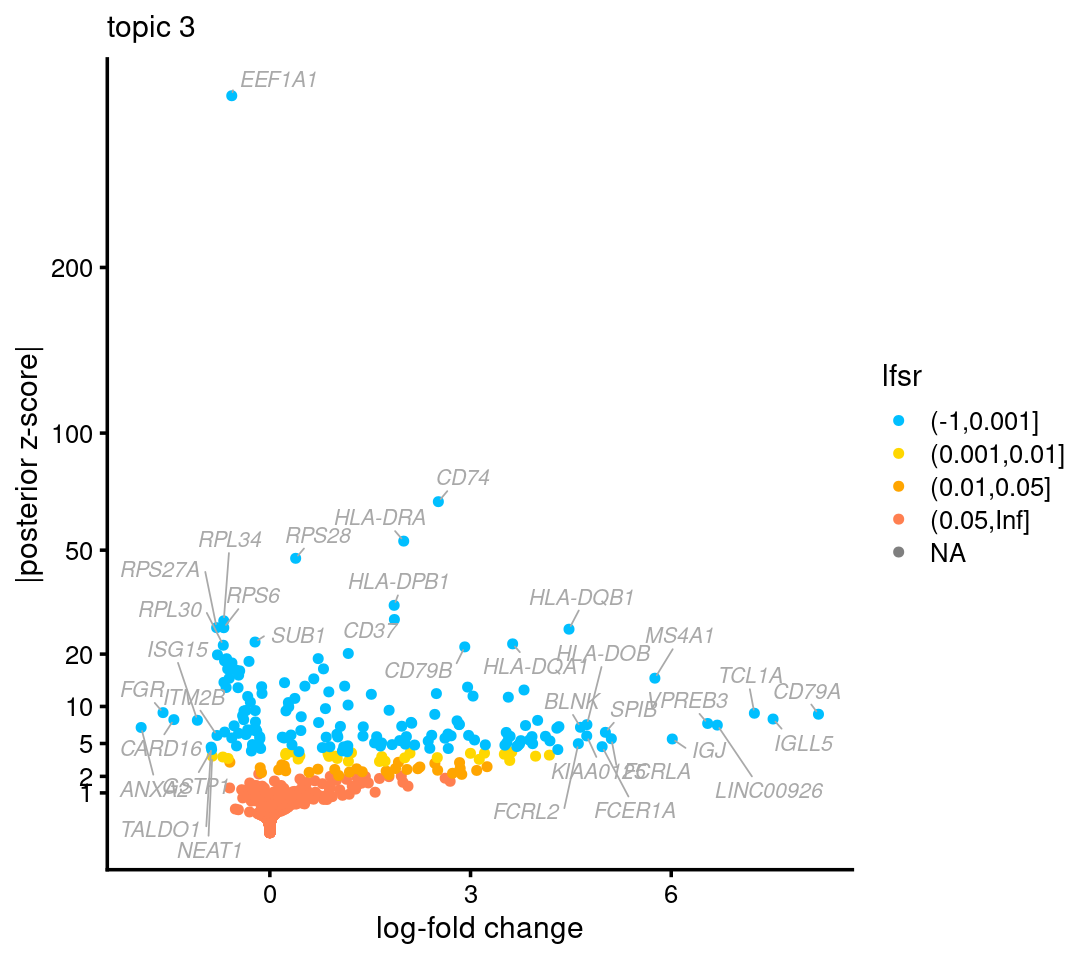
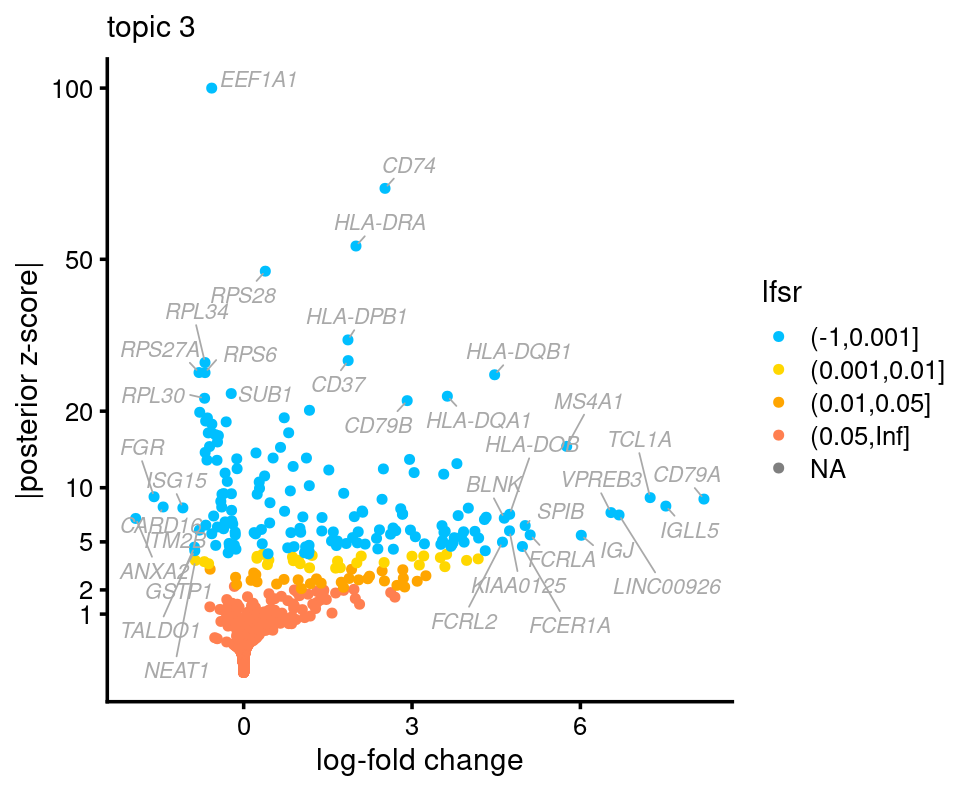
Revised the volcano plots and accompanying text in the fasttopics vignette.

diff --git a/docs/fasttopics.html b/docs/fasttopics.html
@@ -168,7 +168,7 @@ pre code {
 
 
 <h1 class="title toc-ignore">Analyzing Seurat data using fastTopics</h1>
-<h4 class="date">Compiled: March 17, 2023</h4>
+<h4 class="date">Compiled: March 20, 2023</h4>
 
 </div>
 
@@ -176,40 +176,28 @@ pre code {
 <p>This vignette illustrates the use of the <a
 href="https://github.com/stephenslab/fastTopics">fastTopics</a> Seurat
 wrapper to analyze a Seurat data set. This vignette is intended only to
-introduce the basic fastTopics interface for Seurat objects. For more
-detailed guidance on analyzing single-cell RNA-seq data using a topic
-model, please see the <a
+introduce the basic Seurat interface, and for more detailed guidance
+please visit the <a
 href="https://stephenslab.github.io/fastTopics/articles">fastTopics
 vignettes</a>.</p>
 <p>If you find the <strong>fastTopics</strong> package useful for your
 work, please cite:</p>
-<blockquote>
 <p><em>Visualizing the structure of RNA-seq expression data using grade
-of membership models.</em></p>
-<p>K. K. Dey, C. J. Hsiao and M. Stephens.</p>
-<p>PLoS Genetics, 2017.</p>
-<p>doi: <a
+of membership models.</em><br> K. K. Dey, C. J. Hsiao and M.
+Stephens.<br> PLoS Genetics, 2017.<br> doi: <a
 href="https://doi.org/10.1371/journal.pgen.1006599">10.1371/journal.pgen.1006599</a></p>
-</blockquote>
 <p>and</p>
-<blockquote>
 <p><em>Non-negative matrix factorization algorithms greatly improve
-topic model fits.</em></p>
-<p>P. Carbonetto, A. Sarkar, Z. Wang and M. Stephens.</p>
-<p>arXiv, 2021</p>
-<p><a href="https://arxiv.org/abs/2105.13440">arXiv 2105.13440</a></p>
-</blockquote>
-<p>If you use the <strong>de_analysis</strong> function in fastTopics,
-please cite:</p>
-<blockquote>
+topic model fits.</em><br> P. Carbonetto, A. Sarkar, Z. Wang and M.
+Stephens.<br> arXiv, 2021.<br> <a
+href="https://arxiv.org/abs/2105.13440">arXiv 2105.13440</a></p>
+<p>If you use the <strong>de_analysis</strong> function in
+<strong>fastTopics</strong>, please cite:</p>
 <p><em>Interpreting structure in sequence count data with differential
-expression analysis allowing for grades of membership.</em></p>
-<p>P. Carbonetto, K. Luo, A. Sarkar, A. Hung, K. Tayeb, S. Pott and M.
-Stephens</p>
-<p>bioRxiv, 2023.</p>
-<p>doi: <a
+expression analysis allowing for grades of membership.</em><br> P.
+Carbonetto, K. Luo, A. Sarkar, A. Hung, K. Tayeb, S. Pott and M.
+Stephens.<br> bioRxiv, 2023.<br> doi: <a
 href="https://doi.org/10.1101/2023.03.03.531029">10.1101/2023.03.03.531029</a></p>
-</blockquote>
 <p>To begin, load the packages we will need to perform the analysis.</p>
 <pre class="r"><code>library(Seurat)
 library(SeuratData)
@@ -225,7 +213,7 @@ data(pbmc3k)
 dim(GetAssayData(pbmc3k))
 # [1] 13714  2700</code></pre>
 <p>Fit the multinomial topic model to the raw UMI counts. <em>No data
-preprocessing or gene filtering is needed.</em> It may take several
+preprocessing or gene filtering is needed.</em> Note it may take several
 minutes to fit the model.</p>
 <pre class="r"><code>pbmc3k &lt;- FitTopicModel(pbmc3k, k = 6)</code></pre>
 <p>To fit a topic model, we had to choose <span
@@ -250,28 +238,29 @@ DimPlot(pbmc3k, reduction = &quot;pca&quot;, pt.size = 1) + theme_cowplot(font_s
 <p>The fitted topic model—a “multinom_topic_model” object—is stored in
 the “misc” slot:</p>
 <pre class="r"><code>fit &lt;- Misc(Reductions(pbmc3k, &quot;multinom_topic_model&quot;))$fit</code></pre>
-<p>Once the topic model has been extracted from the Seurat object, many
-fastTopics functions can be used for downstream analysis and
+<p>Once the topic model has been extracted from the Seurat object, a
+variety of fastTopics functions can be used for downstream analysis and
 visualization. For example, we can create a “Structure plot” to
 visualize all <span class="math inline">\(K\)</span> dimensions of the
 topic model simultaneously:</p>
 <pre class="r"><code>structure_plot(fit, grouping = Idents(pbmc3k), gap = 25)</code></pre>
 <p><img src="fasttopics_files/figure-html/structure-plot-1.png" width="900" style="display: block; margin: auto;" /></p>
-<p>In the Structure plot, each position along the x-axis is a cell, and
-the bar heights at each positioin correspond to topic proportions for
+<p>In the Structure plot, each position along the x-axis is a cell and
+the bar heights at each position correspond to topic proportions for
 that cell.</p>
-<p>From this plot, we observe that topic 3 (green) closely corresponds
-to B cells. Topics 1 (red) and 4 (purple) also correspond fairly well to
-the two types of monocytes, but there is also some overlap in the
-topics; in particular, the purple topic is shared by both types of
-monocytes. This suggests that expression in these two types of cells is
-less distinguishable than B cells vs. other cell types.</p>
+<p>Looking closely at the Structure plot, we observe that topic 3
+(green) closely corresponds to B cells. Topics 1 (red) and 4 (purple)
+also correspond fairly well to the two types of monocytes, but there is
+also some overlap in the topics; in particular, the purple topic is
+shared by both types of monocytes. This suggests that expression in
+these two types of cells is less distinguishable than B cells vs. other
+cell types.</p>
 <p>Topic 5 (orange) corresponds closely to natural killer (NK) cells.
 Topic 2 (blue) appears to capture biological processes common to T
 cells. Interestingly, CD8+ T cells have characteristics of both NK cells
 and T cells—these are T cells that sometimes become ``NK-like’’—and this
 is reflected in the topic model by assigning membership to both topics 2
-and 5 (blue and orange).</p>
+and 5.</p>
 <p>The other cell types (platelets, dendritic cells), perhaps because
 they are less abundant and/or difficult to distinguish from the other
 cell types, are represented as combinations of the topics for the other
@@ -279,27 +268,44 @@ cell types.</p>
 <p>Topic 6 is present in almost all cells to varying degrees, and
 therefore its biological interpretation is not at all clear from the
 cell labeling.</p>
-<p>Motivate the DE analysis using the topic model:</p>
+<p>Having compared the topic model with the existing cell-type labels,
+our next aim is to annotate the topics by identifying genes that are
+distinctive to each topic. To do this, we perform a “grade of
+membership” differential expression analysis (GoM DE):</p>
 <pre class="r"><code>pbmc3k &lt;- PerformGoMDEAnalysis(pbmc3k, pseudocount = 0.1, control = list(ns = 10000, nc = 4))
-# Using 4 RcppParallel threads.
 # Fitting 13714 Poisson models with k=6 using method=&quot;scd&quot;.
 # Computing log-fold change statistics from 13714 Poisson models with k=6.
 # Stabilizing posterior log-fold change estimates using adaptive shrinkage.</code></pre>
-<p>Now we can create volcano plots to visualize the results of the DE
-analysis.</p>
-<p>B cells:</p>
+<p>Note this step may take some time to run on your computer—10 minutes,
+or perhaps more. This is an expensive step because posterior estimation
+is performed through Monte Carlo simulation.</p>
+<p>Once the differential expression analysis is complete, we can use a
+“volcano plot” to visualize the results. For example, this is the
+volcano plot for topic 3:</p>
 <pre class="r"><code>de &lt;- Misc(Reductions(pbmc3k, &quot;multinom_topic_model&quot;))$de
-volcano_plot(de, k = 3)</code></pre>
-<p><img src="fasttopics_files/figure-html/volcano-plot-b-cells-1.png" width="540" style="display: block; margin: auto;" /></p>
-<p>CD14+ monocytes:</p>
-<pre class="r"><code>volcano_plot(de, k = 1)</code></pre>
-<p><img src="fasttopics_files/figure-html/volcano-plot-cd14-1.png" width="540" style="display: block; margin: auto;" /></p>
-<p>NK cells:</p>
+volcano_plot(de, k = 3, ymax = 100)</code></pre>
+<p><img src="fasttopics_files/figure-html/volcano-plot-b-cells-1.png" width="480" style="display: block; margin: auto;" /></p>
+<p>The volcano plot shows the log-fold change (LFC) on the x-axis and
+some measure of statistical support on the y-axis. For the measure of
+support, we use the posterior <em>z</em>-score (posterior mean divided
+by posterior standard deviation). To report which LFCs are significant,
+instead of a <em>p</em>-value we give the local false sign rate (lfsr),
+which is typically slightly more conservative than a <em>p</em>-value.
+Note the LFC is defined with the base-2 log by convention.</p>
+<p>Typically, the most interesting genes are found on the right-hand
+side of the volcano plot—the genes with the largest LFCs. Indeed,
+<em>CD79A</em> is on the far right-hand side of the plot, which aligns
+with our previous finding that topic 3 corresponds closely to B
+cells.</p>
+<p>Similarly, NK genes such as <em>NKG7</em> and <em>GNLY</em> emerge on
+the right-hand side of the volcano plot for topic 1:</p>
 <pre class="r"><code>volcano_plot(de, k = 5, ymax = 50)</code></pre>
-<p><img src="fasttopics_files/figure-html/volcano-plot-nk-1.png" width="540" style="display: block; margin: auto;" /></p>
-<p>Ribosomal protein genes:</p>
+<p><img src="fasttopics_files/figure-html/volcano-plot-nk-1.png" width="480" style="display: block; margin: auto;" /></p>
+<p>Topic 6 captures continuous structure and is present in almost all
+cells, and the GoM DE results for topic 6 show a striking enrichment of
+ribosome-associated genes:</p>
 <pre class="r"><code>volcano_plot(de, k = 6, ymax = 50)</code></pre>
-<p><img src="fasttopics_files/figure-html/volcano-plot-rp-genes-1.png" width="540" style="display: block; margin: auto;" /></p>
+<p><img src="fasttopics_files/figure-html/volcano-plot-rp-genes-1.png" width="480" style="display: block; margin: auto;" /></p>
 <p>This is the version of R and the packages that were used to generate
 these results:</p>
 <pre class="r"><code>sessionInfo()
